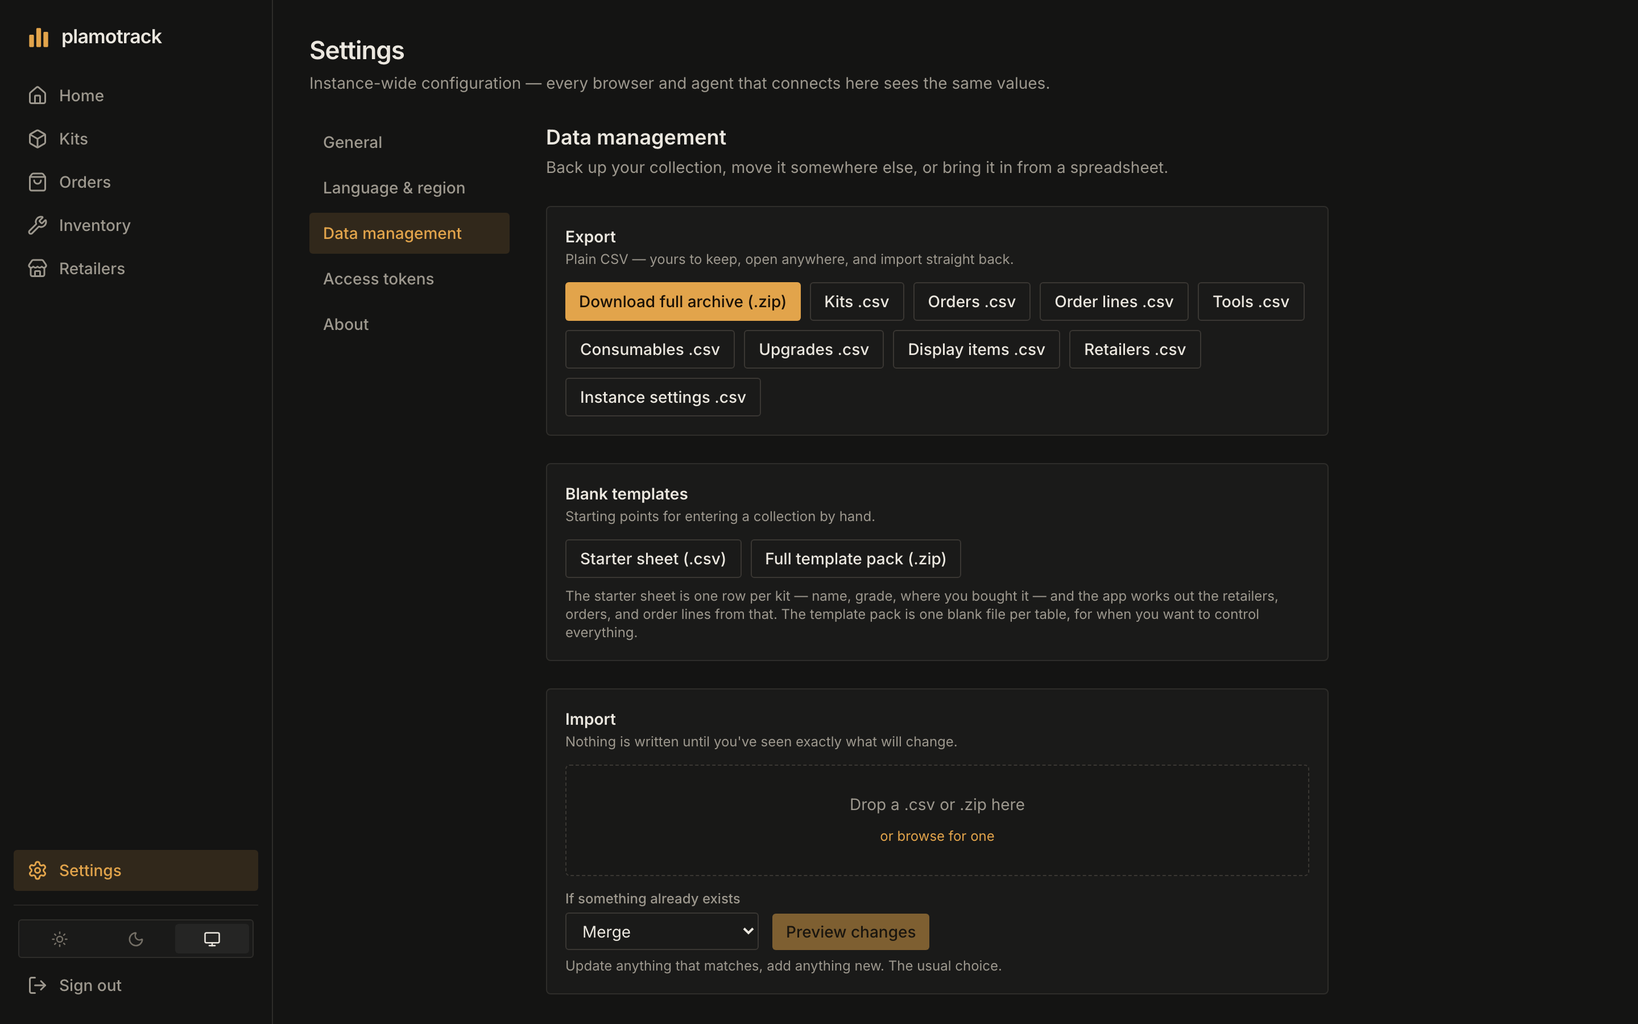
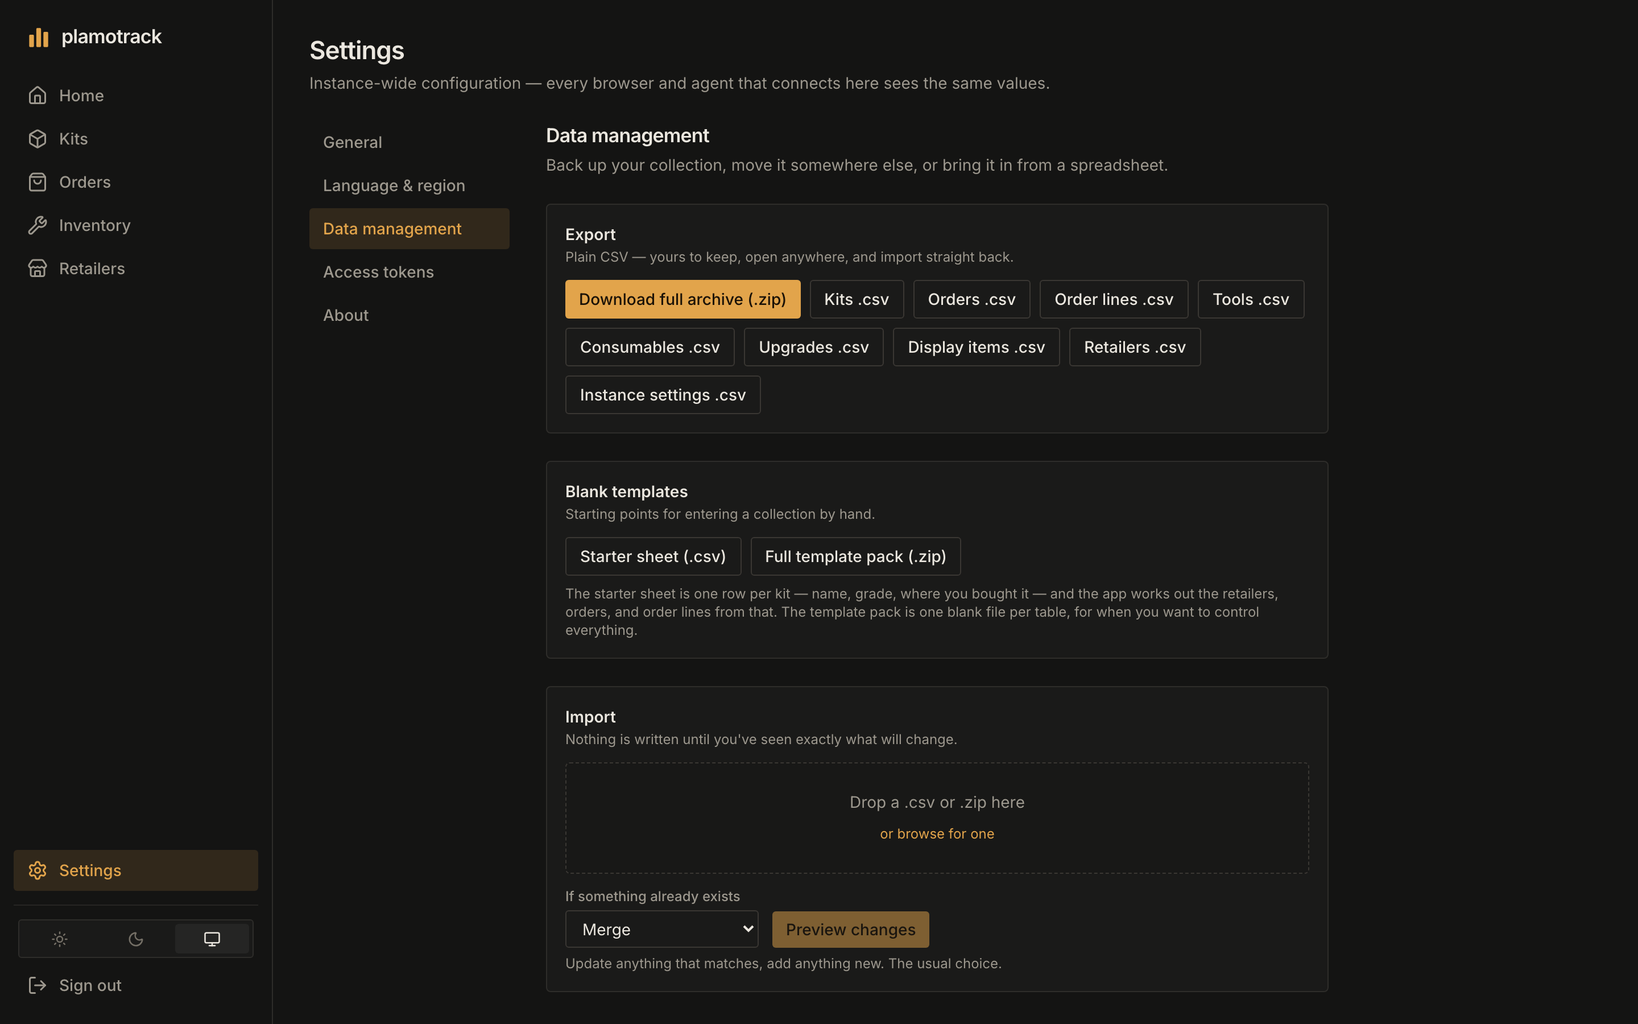
M6.5 (4/4), #234: Settings chrome, the plain description on sign-in and About, the last glyph, the captures and the README in the new look; §13 marked built
- Settings: the section navigation in the sidebar's row shape, the section
  heading at the bench card's scale, the Access tokens table in the list
  pages' shape.
- layout.description replaces layout.tagline on the sign-in screen and About
  ("A self-hosted Gunpla and plamo collection and build tracker."); the README
  keeps its own tagline.
- The catalog picker's "＋" glyph is a Lucide Plus; the display-items e2e
  locator follows the accessible name.
- screenshots.spec.ts writes home-light.png (the token flip) and sign-in.png
  (an anonymous context, storageState said explicitly); all seven captures
  regenerated from the seed.
- README: "One look, two themes" with the light capture, the sign-in capture
  under Installing, the roadmap row built. design §13 header, §11, §13.1,
  §13.3 and §13.6 marked built with what the build changed; AGENTS roadmap.

diff --git a/frontend/src/pages/settings/AccessTokensSection.tsx b/frontend/src/pages/settings/AccessTokensSection.tsx
@@ -12,8 +12,8 @@ import {
   ErrorBanner,
   Field,
   Input,
-  MICRO_LABEL_CLASS,
   Select,
+  TABLE_HEAD_ROW_CLASS,
 } from "../../components/ui";
 import { formatDateTime, formatNumber } from "../../lib/format";
 import { SectionHeader } from "./SectionHeader";
@@ -193,20 +193,22 @@ function TokenList() {
       ) : tokens.length === 0 ? (
         <EmptyState>{t("settings.tokens.empty")}</EmptyState>
       ) : (
-        <div className="overflow-x-auto">
+        // The list pages' table shape (§13.4): micro-label head row on the
+        // alternate surface, hairlines between rows.
+        <div className="overflow-x-auto rounded-md border border-border">
           <table className="w-full text-sm">
-            <thead className={`text-start ${MICRO_LABEL_CLASS}`}>
-              <tr>
-                <th className="pb-2 pr-3">{t("settings.tokens.colName")}</th>
-                <th className="pb-2 pr-3">{t("settings.tokens.colPrefix")}</th>
-                <th className="pb-2 pr-3">{t("settings.tokens.colAccess")}</th>
-                <th className="pb-2 pr-3">{t("settings.tokens.colCreated")}</th>
-                <th className="pb-2 pr-3">{t("settings.tokens.colLastUsed")}</th>
-                <th className="pb-2 pr-3">{t("settings.tokens.colExpires")}</th>
-                <th className="pb-2" />
+            <thead>
+              <tr className={TABLE_HEAD_ROW_CLASS}>
+                <th className="px-3 py-2.5">{t("settings.tokens.colName")}</th>
+                <th className="px-3 py-2.5">{t("settings.tokens.colPrefix")}</th>
+                <th className="px-3 py-2.5">{t("settings.tokens.colAccess")}</th>
+                <th className="px-3 py-2.5">{t("settings.tokens.colCreated")}</th>
+                <th className="px-3 py-2.5">{t("settings.tokens.colLastUsed")}</th>
+                <th className="px-3 py-2.5">{t("settings.tokens.colExpires")}</th>
+                <th className="px-3 py-2.5" />
               </tr>
             </thead>
-            <tbody className="divide-y divide-rule">
+            <tbody>
               {tokens.map((token) => (
                 <TokenRow
                   key={token.id}
@@ -239,24 +241,27 @@ function TokenRow({
   const inactive = revoked || expired;
   const writes = token.scopes.includes("collection:write");
   return (
-    <tr data-testid="token-row" className={inactive ? "text-faint" : ""}>
-      <td className="py-2 pr-3 font-medium">{token.name}</td>
-      <td className="py-2 pr-3 font-mono text-xs">ptk_{token.token_prefix}_…</td>
-      <td className="py-2 pr-3">
+    <tr
+      data-testid="token-row"
+      className={`border-b border-rule last:border-0 ${inactive ? "text-faint" : ""}`}
+    >
+      <td className="px-3 py-2 font-medium">{token.name}</td>
+      <td className="px-3 py-2 font-mono text-xs">ptk_{token.token_prefix}_…</td>
+      <td className="px-3 py-2">
         {writes ? t("settings.tokens.accessWrite") : t("settings.tokens.accessRead")}
       </td>
-      <td className="py-2 pr-3 whitespace-nowrap">{formatDateTime(token.created_at)}</td>
-      <td className="py-2 pr-3 whitespace-nowrap">
+      <td className="px-3 py-2 whitespace-nowrap">{formatDateTime(token.created_at)}</td>
+      <td className="px-3 py-2 whitespace-nowrap">
         {token.last_used_at ? formatDateTime(token.last_used_at) : t("settings.tokens.neverUsed")}
       </td>
-      <td className="py-2 pr-3 whitespace-nowrap">
+      <td className="px-3 py-2 whitespace-nowrap">
         {expired
           ? t("settings.tokens.expired")
           : token.expires_at
             ? formatDateTime(token.expires_at)
             : t("settings.tokens.noExpiry")}
       </td>
-      <td className="py-2 text-end whitespace-nowrap">
+      <td className="px-3 py-2 text-end whitespace-nowrap">
         {revoked ? (
           <span className="text-xs">
             {t("settings.tokens.revoked", { when: formatDateTime(token.revoked_at as string) })}

diff --git a/frontend/e2e/screenshots.spec.ts b/frontend/e2e/screenshots.spec.ts
@@ -11,8 +11,9 @@
  *   # recipe in .agents/testing-and-review.md, then:
  *   ( cd frontend && DATABASE_URL="$DSN" SCREENSHOTS=1 npx playwright test e2e/screenshots.spec.ts )
  *
- * Writes five 2× PNGs into docs/screenshots/, same names and logical sizes as
- * the originals. Everything seeded here is invented demo data — the README
+ * Writes seven 2× PNGs into docs/screenshots/ — five pages in the dark theme,
+ * Home again in the light theme (the token flip, §13.1), and the sign-in
+ * screen from a context with no session. Everything seeded here is invented demo data — the README
  * says so under the retailers screenshot, so keep it that way: no real shops,
  * no real ratings. The one cross-reference the README prose makes must hold:
  * Mr. Color Thinner at 0 on hand, sitting on a *pending* Mecha Supply Co
@@ -23,7 +24,7 @@ import { fileURLToPath } from "node:url";
 
 import { expect, test } from "@playwright/test";
 
-import { apiContext } from "./api";
+import { STORAGE_STATE, apiContext } from "./api";
 const HERE = path.dirname(fileURLToPath(import.meta.url));
 const OUT = path.join(HERE, "..", "..", "docs", "screenshots");
 
@@ -338,6 +339,42 @@ test("seed the demo collection and capture the README screenshots", async ({ pag
     await expect(page.getByText("Mecha Supply Co")).toBeVisible();
     await expect(page.getByText("Orbit Hobby Depot")).toBeVisible();
   });
+
+  // The light theme (§13.1): the same page, the same tokens under
+  // [data-theme="light"], from a context whose device is light and that holds
+  // no stored preference — what a light-mode browser sees on first visit.
+  const light = await page.context().browser()!.newContext({
+    storageState: STORAGE_STATE,
+    colorScheme: "light",
+    deviceScaleFactor: 2,
+    viewport: { width: 1440, height: 1000 },
+  });
+  const lightPage = await light.newPage();
+  await lightPage.goto("/");
+  await expect(lightPage.getByRole("heading", { level: 1, name: "Home" })).toBeVisible();
+  await expect(
+    lightPage.getByRole("heading", { level: 3, name: "HG Sinanju Stein (Narrative Ver.)" }),
+  ).toBeVisible();
+  await expect(lightPage.locator("html")).toHaveAttribute("data-theme", "light");
+  await lightPage.waitForTimeout(400);
+  await lightPage.screenshot({ path: path.join(OUT, "home-light.png") });
+  await light.close();
+
+  // The sign-in screen (local mode): a context with no session cookie. Inside
+  // a test, `browser.newContext()` starts from the project's `use` options —
+  // the owner's storageState included — so the empty state is said explicitly.
+  const anonymous = await page.context().browser()!.newContext({
+    storageState: { cookies: [], origins: [] },
+    colorScheme: "dark",
+    deviceScaleFactor: 2,
+    viewport: { width: 1440, height: 720 },
+  });
+  const anonymousPage = await anonymous.newPage();
+  await anonymousPage.goto("/");
+  await expect(anonymousPage.getByRole("button", { name: "Sign in" })).toBeVisible();
+  await anonymousPage.waitForTimeout(400);
+  await anonymousPage.screenshot({ path: path.join(OUT, "sign-in.png") });
+  await anonymous.close();
 
   await shot("/settings/data", "data.png", { width: 1440, height: 900 }, async () => {
     await expect(page.getByText(/export/i).first()).toBeVisible();

diff --git a/frontend/src/pages/settings/SettingsPage.tsx b/frontend/src/pages/settings/SettingsPage.tsx
@@ -1,6 +1,7 @@
 import { useTranslation } from "react-i18next";
 import { NavLink, Outlet } from "react-router-dom";
 
+import { navRowClass } from "../../components/Layout";
 import { PageTitle } from "../../components/ui";
 
 /** Section slugs are route segments (App.tsx nests them under /settings) and
@@ -21,23 +22,18 @@ export function SettingsPage() {
         <PageTitle>{t("settings.title")}</PageTitle>
         <p className="mt-0.5 text-sm text-muted">{t("settings.subtitle")}</p>
       </div>
-      {/* Stacked on small screens (sections in a scrollable row), sidebar on sm+. */}
+      {/* Stacked on small screens (sections in a scrollable row), a second pane
+          on sm+ — the rows in the sidebar's own shape (§13.3). */}
       <div className="mt-6 sm:flex sm:gap-8">
         <nav
           aria-label={t("settings.title")}
-          className="flex gap-1 overflow-x-auto sm:w-44 sm:shrink-0 sm:flex-col sm:self-start"
+          className="flex gap-0.5 overflow-x-auto sm:w-44 sm:shrink-0 sm:flex-col sm:self-start"
         >
           {SECTIONS.map((section) => (
             <NavLink
               key={section.to}
               to={section.to}
-              className={({ isActive }) =>
-                `whitespace-nowrap rounded-sm px-3 py-2 text-sm font-medium ${
-                  isActive
-                    ? "bg-accent-soft text-accent"
-                    : "text-muted hover:bg-chip hover:text-text"
-                }`
-              }
+              className={(state) => `whitespace-nowrap ${navRowClass(state)}`}
             >
               {t(section.label)}
             </NavLink>

diff --git a/frontend/src/components/CatalogItemPicker.tsx b/frontend/src/components/CatalogItemPicker.tsx
@@ -1,4 +1,5 @@
 import { useQuery } from "@tanstack/react-query";
+import { Plus } from "lucide-react";
 import { useEffect, useId, useState } from "react";
 import { useTranslation } from "react-i18next";
 
@@ -212,7 +213,7 @@ export function CatalogItemPicker({
           ))}
           <button
             type="button"
-            className="w-full border-t border-rule px-3 py-2 text-start text-sm font-medium text-accent hover:bg-accent-soft"
+            className="flex w-full items-center gap-1.5 border-t border-rule px-3 py-2 text-start text-sm font-medium text-accent hover:bg-accent-soft"
             onClick={() =>
               onChange({
                 mode: "new",
@@ -223,6 +224,8 @@ export function CatalogItemPicker({
               })
             }
           >
+            {/* A stroke icon, not the "＋" glyph (§13: one icon set). */}
+            <Plus size={14} aria-hidden className="shrink-0" />
             {t("catalogPicker.createNew", { type: itemTypeLabel(itemType), query: query.trim() })}
           </button>
         </div>

diff --git a/frontend/src/components/AuthGate.tsx b/frontend/src/components/AuthGate.tsx
@@ -195,8 +195,9 @@ function Centered({ children }: { children: ReactNode }) {
   );
 }
 
-/** The wordmark with the tagline — the tagline lives here and on About, not in
- *  the sidebar (§13.3). The wordmark is a brand identifier, not copy. */
+/** The wordmark with the one-line description — it lives here and on About,
+ *  not in the sidebar (§13.3), and it is plain: the README keeps the joke. The
+ *  wordmark is a brand identifier, not copy. */
 function Wordmark() {
   const { t } = useTranslation();
   return (
@@ -205,7 +206,7 @@ function Wordmark() {
         <BrandMark size={24} />
         <span>plamotrack</span>
       </h1>
-      <p className="mt-1 text-xs text-muted">{t("layout.tagline")}</p>
+      <p className="mt-1 text-xs text-muted">{t("layout.description")}</p>
     </div>
   );
 }

diff --git a/frontend/e2e/display-items.spec.ts b/frontend/e2e/display-items.spec.ts
@@ -88,7 +88,7 @@ test("an order line creates a display item and stocks it on receive", async ({ p
 
   // The picker's create-new branch: display is the only type showing all three.
   await page.getByPlaceholder("Search display items…").fill(SCENERY);
-  await page.getByRole("button", { name: `＋ Create new display item “${SCENERY}”` }).click();
+  await page.getByRole("button", { name: `Create new display item “${SCENERY}”` }).click();
   await page.getByPlaceholder(/^Category \(required\)/).fill("scenery");
   await page.getByPlaceholder("Manufacturer", { exact: true }).fill("Tomytec");
   await page.getByPlaceholder("Scale, e.g. 1/144").fill("1/144");

diff --git a/frontend/src/components/Layout.tsx b/frontend/src/components/Layout.tsx
@@ -35,9 +35,10 @@ const NAV = [
 
 export const SIDEBAR_DIVIDER_CLASS = "border-e";
 
-const NAV_ROW_CLASS = "flex h-9 items-center gap-2.5 rounded-sm px-3 text-sm font-medium";
+/** One nav row (§13.3): the sidebar's, and the Settings sections' (SettingsPage). */
+export const NAV_ROW_CLASS = "flex h-9 items-center gap-2.5 rounded-sm px-3 text-sm font-medium";
 
-function navRowClass({ isActive }: { isActive: boolean }): string {
+export function navRowClass({ isActive }: { isActive: boolean }): string {
   return `${NAV_ROW_CLASS} ${
     isActive ? "bg-accent-soft text-accent" : "text-muted hover:bg-chip hover:text-text"
   }`;

diff --git a/frontend/src/pages/settings/AboutSection.tsx b/frontend/src/pages/settings/AboutSection.tsx
@@ -19,7 +19,7 @@ export function AboutSection() {
         <ErrorBanner message={error instanceof ApiError ? error.message : t("common.requestFailed")} />
       ) : meta ? (
         /* The wordmark is a brand identifier, not copy — it stays untranslated. */
-        <Card title="plamotrack" description={t("layout.tagline")}>
+        <Card title="plamotrack" description={t("layout.description")}>
           <dl>
             <div className="flex items-baseline justify-between gap-4">
               <dt className="text-sm text-muted">{t("settings.about.version")}</dt>

diff --git a/frontend/src/pages/settings/SectionHeader.tsx b/frontend/src/pages/settings/SectionHeader.tsx
@@ -3,7 +3,7 @@
 export function SectionHeader({ title, description }: { title: string; description: string }) {
   return (
     <div>
-      <h2 className="text-lg font-semibold">{title}</h2>
+      <h2 className="text-[17px] font-semibold tracking-tight text-text">{title}</h2>
       <p className="mt-0.5 text-sm text-muted">{description}</p>
     </div>
   );

diff --git a/docs/design.md b/docs/design.md
@@ -2365,9 +2365,10 @@ Unchanged from the original plan:
    is §5.9
 10. 🔨 **M6.1 — MCP modernisation:** dual-era compatibility for the existing protocol
     generation and `2026-07-28`, with conformance and real-client coverage
-11. 🔨 **M6.5 — UI redesign:** move off the stock Tailwind look. Direction
+11. ✅ **M6.5 — UI redesign:** move off the stock Tailwind look. Direction
     **decided 09/09/2026 — Workbench, §13** — after three directions were drawn on
-    the same screens; the build is split in §13.6. Sequenced after M5.1 so the
+    the same screens; the build is split in §13.6 and **complete on the integration
+    branch (10/09/2026, #231–#234)**, landing on `main` as v0.4.0-alpha. Sequenced after M5.1 so the
     Settings surface isn't styled twice, and before M7/M8 so the gallery and the
     showcase are built in the new look once. Board interaction gaps deferred from
     the #120 consolidation (#122) land here: Home replaces the board (§13.2)
@@ -2624,7 +2625,7 @@ considered and declined.
 
 ---
 
-## 13. UI redesign (M6.5) — direction decided 09/09/2026
+## 13. UI redesign (M6.5) ✅ — direction decided 09/09/2026, built 10/09/2026 (#231–#234)
 
 **Decision.** The interface moves off the stock Tailwind vocabulary to one house
 look, *Workbench*: warm near-black surfaces (the light theme a warm off-white), one
@@ -2655,6 +2656,15 @@ one more token file, so choosing now closes nothing.
 - **Inter is bundled with the app**, never fetched from a font host: a private
   instance makes no third-party request to render.
 - **Icons are stroke icons from one set (Lucide).** The emoji go.
+
+Built as #231 (2026-09-10). What the build changed: the light theme's accent and
+five of its status hues are the artboard's hues *darkened* until every composed
+text-on-chip pair clears 4.5:1 (`src/lib/tokens.test.ts` parses `index.css` and
+asserts each pair in both themes; Codex #235) — the artboard's light values are no
+longer literal; `--faint` is held to 3:1 on the chip as well as the surfaces, because
+a hovered row is the chip and its pencil sits on it (Codex #236); and the palette
+guard (`scripts/check-palette.mjs`, run by `npm run lint`) refuses arbitrary colour,
+radius and shadow values too, not only the stock palette.
 
 ### 13.2 Home replaces the board
 
@@ -2712,6 +2722,12 @@ the owner is bound as ("Jamie · via Google"), the one identity a single-owner a
 has to show. In local mode the footer is two controls: nothing to manage, so no
 profile card.
 
+Built as #231 (2026-09-10), Home first from #233. The line that moved off the
+sidebar is a plain one-line description ("A self-hosted Gunpla and plamo collection
+and build tracker."), on the sign-in screen and About (#234); the README keeps its
+own tagline. The Settings sections' navigation is the sidebar's row shape, and the
+Access tokens table the list pages' (#234).
+
 ### 13.4 List pages
 
 Kits, Orders, Inventory and Retailers keep their tables and gain what Home links
@@ -2755,11 +2771,12 @@ merged into it as `main` moves, landed on `main` in one release (v0.4.0-alpha), 
 (decided 2026-09-10) — in this order, so no page is styled twice (filed as #231–#234,
 milestone M6.5):
 
-1. **Tokens, theme switch, Inter, Lucide** — every component and page onto the
-   token utilities; the sidebar (§13.3); the sign-in screen.
-2. **List-page filter and sort in the URL** (§13.4) and the row edit control.
+1. ✅ **Tokens, theme switch, Inter, Lucide** — every component and page onto the
+   token utilities; the sidebar (§13.3); the sign-in screen. #231, PR #235 → `f99e085`.
+2. ✅ **List-page filter and sort in the URL** (§13.4) and the row edit control.
    Backend: sort and limit on the kit and order list endpoints, on REST and MCP
-   alike (rule 1), declared in the route registry.
-3. **Home** (§13.2), replacing the board page and the drag-and-drop dependency; the
-   per-status counts come from one service function both surfaces share.
-4. Settings, About, the e2e suite and the README screenshots in the new look.
+   alike (rule 1), declared in the route registry. #232, PR #236 → `3faca69`.
+3. ✅ **Home** (§13.2), replacing the board page and the drag-and-drop dependency; the
+   per-status counts come from one service function both surfaces share. #233,
+   PR #237 → `8bac10a`.
+4. ✅ Settings, About, the e2e suite and the README screenshots in the new look. #234.

diff --git a/README.md b/README.md
@@ -49,6 +49,16 @@ replaced was drawn for a dozen kits and stopped being useful somewhere around fi
 
 "Backlog" means *in hand, not started*. There is no polite word for this pile. We tried.
 
+### One look, two themes
+
+The interface is one house look — warm near-black surfaces, one amber accent, hairline
+borders, Inter, stroke icons — with a light variant of the same tokens. Light, dark or
+follow-the-device is a per-browser choice in the sidebar, applied before the first
+paint so a dark browser never flashes white. Everything else is an instance-wide
+setting; this is the one thing that belongs to the device asking.
+
+![Home in the light theme](docs/screenshots/home-light.png)
+
 ### Orders that know what they turned into
 
 Order a Zaku ×2 and plamotrack creates **two kit rows**, because you own two physical
@@ -154,7 +164,7 @@ Being honest up front beats you finding out at 11pm:
 | **Internationalisation foundations** | ✅ Milestone 5.1: instance-wide language, formatting locale, time zone, date/hour style, and reference currency; the `en-AU` source catalogue and fallback; a reviewed [translation workflow](docs/translating.md); locale-aware dates, times, numbers, counts, money, and file sizes; structured REST/import diagnostics with translated known identifiers and an English compatibility fallback; and RTL-aware layout utilities. No non-English catalogue ships yet. Upgrades default existing instances to `en-AU`/UTC; naive CSV timestamps are read prospectively in the configured instance zone, stored history is never reinterpreted, and downgrading past the settings migration loses its settings row. |
 | **Authentication, OAuth-compatible remote MCP, a tested TLS deployment** | ✅ Milestone 6 — owner login (password or OpenID Connect), personal access tokens, MCP OAuth for Claude web / ChatGPT web / MCP Inspector, and the reference Caddy deployment plus the other tested ways to expose an instance (`docs/operations.md`) |
 | **MCP `2026-07-28` compatibility** | 🔨 Milestone 6.1 — dual-era, without dropping current clients |
-| **UI redesign** | 🔨 Milestone 6.5 — moving off the stock-component look, so the gallery and showcase get built in the new one; the direction is settled (`docs/design.md` §13) and the build is next |
+| **UI redesign** | ✅ Milestone 6.5 — one house look on semantic tokens with a per-browser light/dark/system switch, Home in place of the board, filter/sort/page in the list pages' URLs, one edit dialog per record (`docs/design.md` §13) |
 | **Photo gallery per kit** | 🔨 Milestone 7 |
 | **Public read-only showcase page** | 🔨 Milestone 8 — after the admin and MCP paths are protected |
 
@@ -172,9 +182,12 @@ cp .env.example .env
 docker compose up -d --build --wait
 ```
 
-Open **http://localhost:8080**. That's an empty collection — head to
-**Settings → Data management → Starter sheet** to pour an existing spreadsheet
-in, or just add an order.
+Open **http://localhost:8080**. The first visit asks for the setup token from the API
+log and a password (the alpha note above); every visit after it is this sign-in, and
+behind it an empty collection — head to **Settings → Data management → Starter sheet**
+to pour an existing spreadsheet in, or just add an order.
+
+![The sign-in screen](docs/screenshots/sign-in.png)
 
 The first run builds two images and takes a couple of minutes; after that it's
 seconds. `.env` is the whole configuration: Compose reads it to start the database

diff --git a/AGENTS.md b/AGENTS.md
@@ -693,9 +693,10 @@ checklist are in `.agents/testing-and-review.md`. The rules they produced:
    OAuth-compatible MCP, tested TLS/VPS deployment path~~ ✅ (§5, v0.3.0-alpha)
 6.1. MCP modernisation: dual-era current + `2026-07-28` compatibility with
      conformance and client coverage
-6.5. UI redesign: move off the stock Tailwind look — direction decided
-     2026-09-09 (Workbench, design §13; the PR split is §13.6); before M7/M8 so
-     the gallery and showcase are built in the new look once (#122 rides here)
+6.5. ~~UI redesign: move off the stock Tailwind look — Workbench, design §13,
+     built as #231–#234 on the integration branch `m6.5-workbench`; before M7/M8
+     so the gallery and showcase are built in the new look once (#122 rode here)~~ ✅
+     (lands on `main` as v0.4.0-alpha)
 7. Photo upload + gallery ← decide storage backend default first (§9.2)
 8. Public read-only routes + showcase page ← only after admin/MCP paths are protected
 9. Open-source operations: contribution guide, release automation, support matrix,
